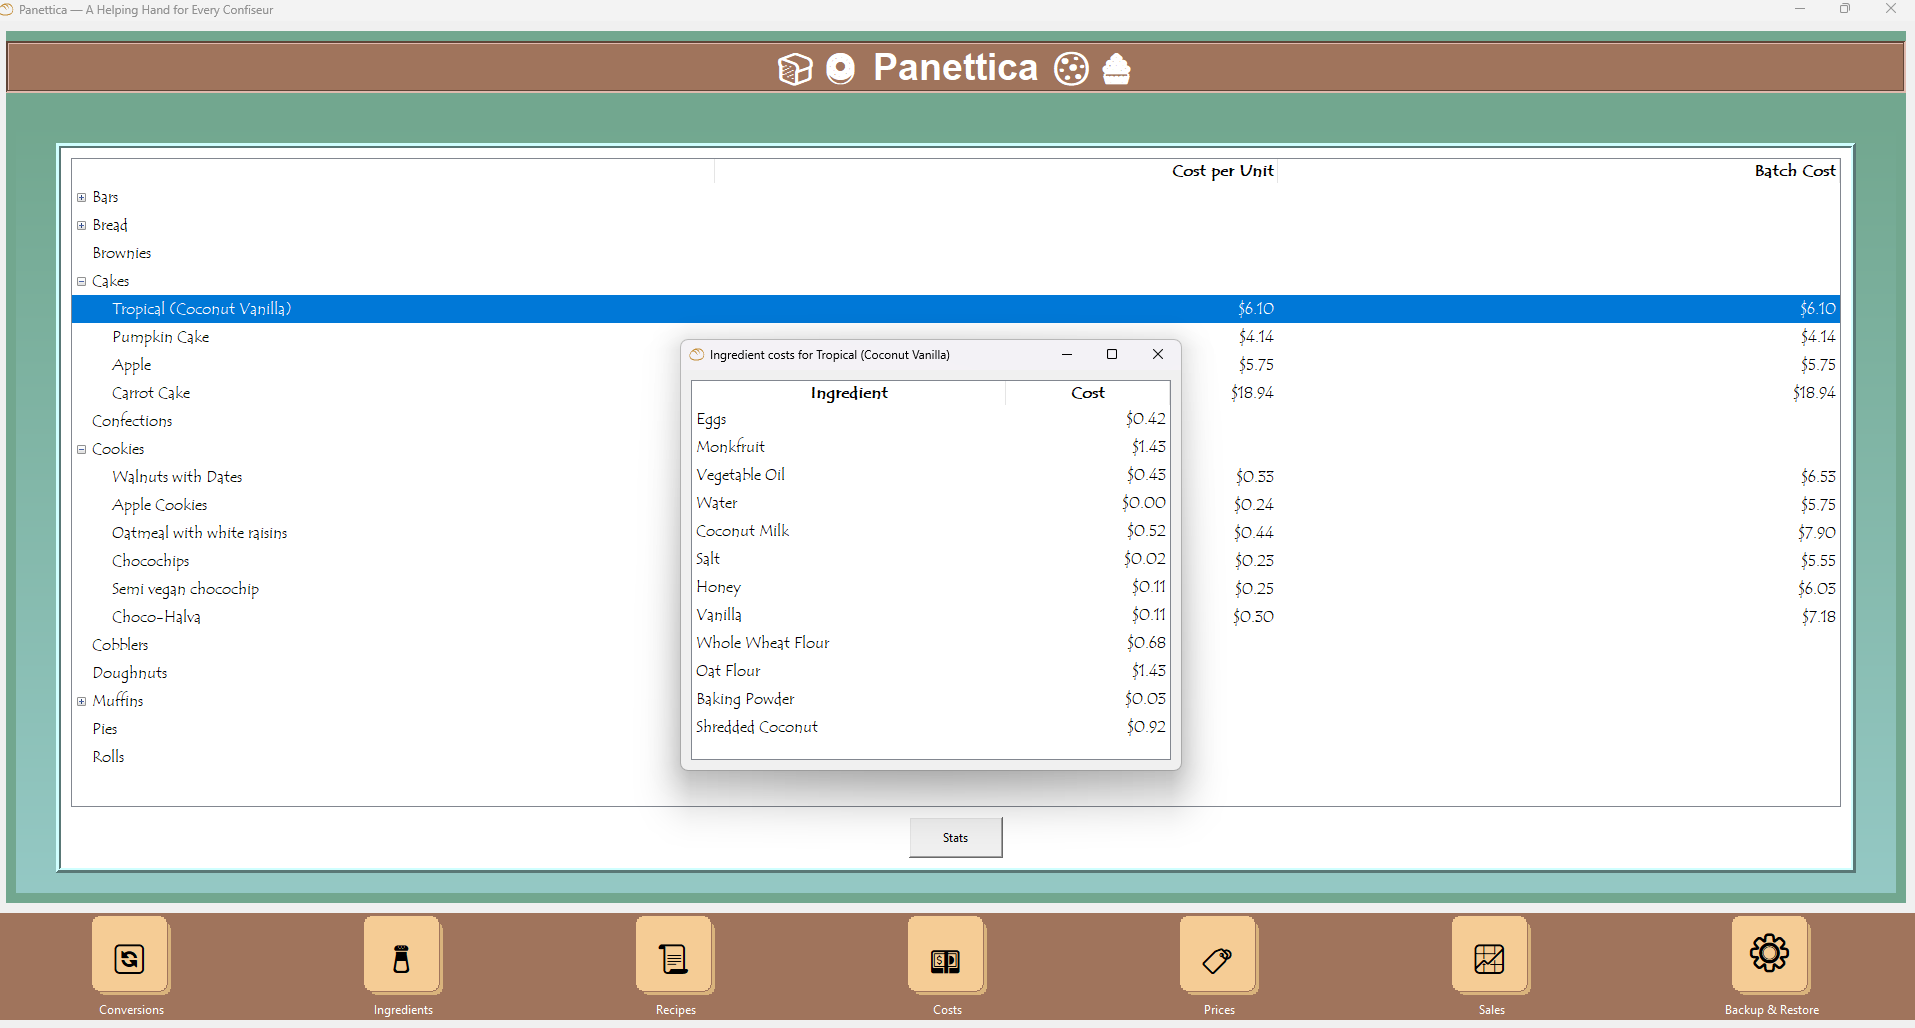
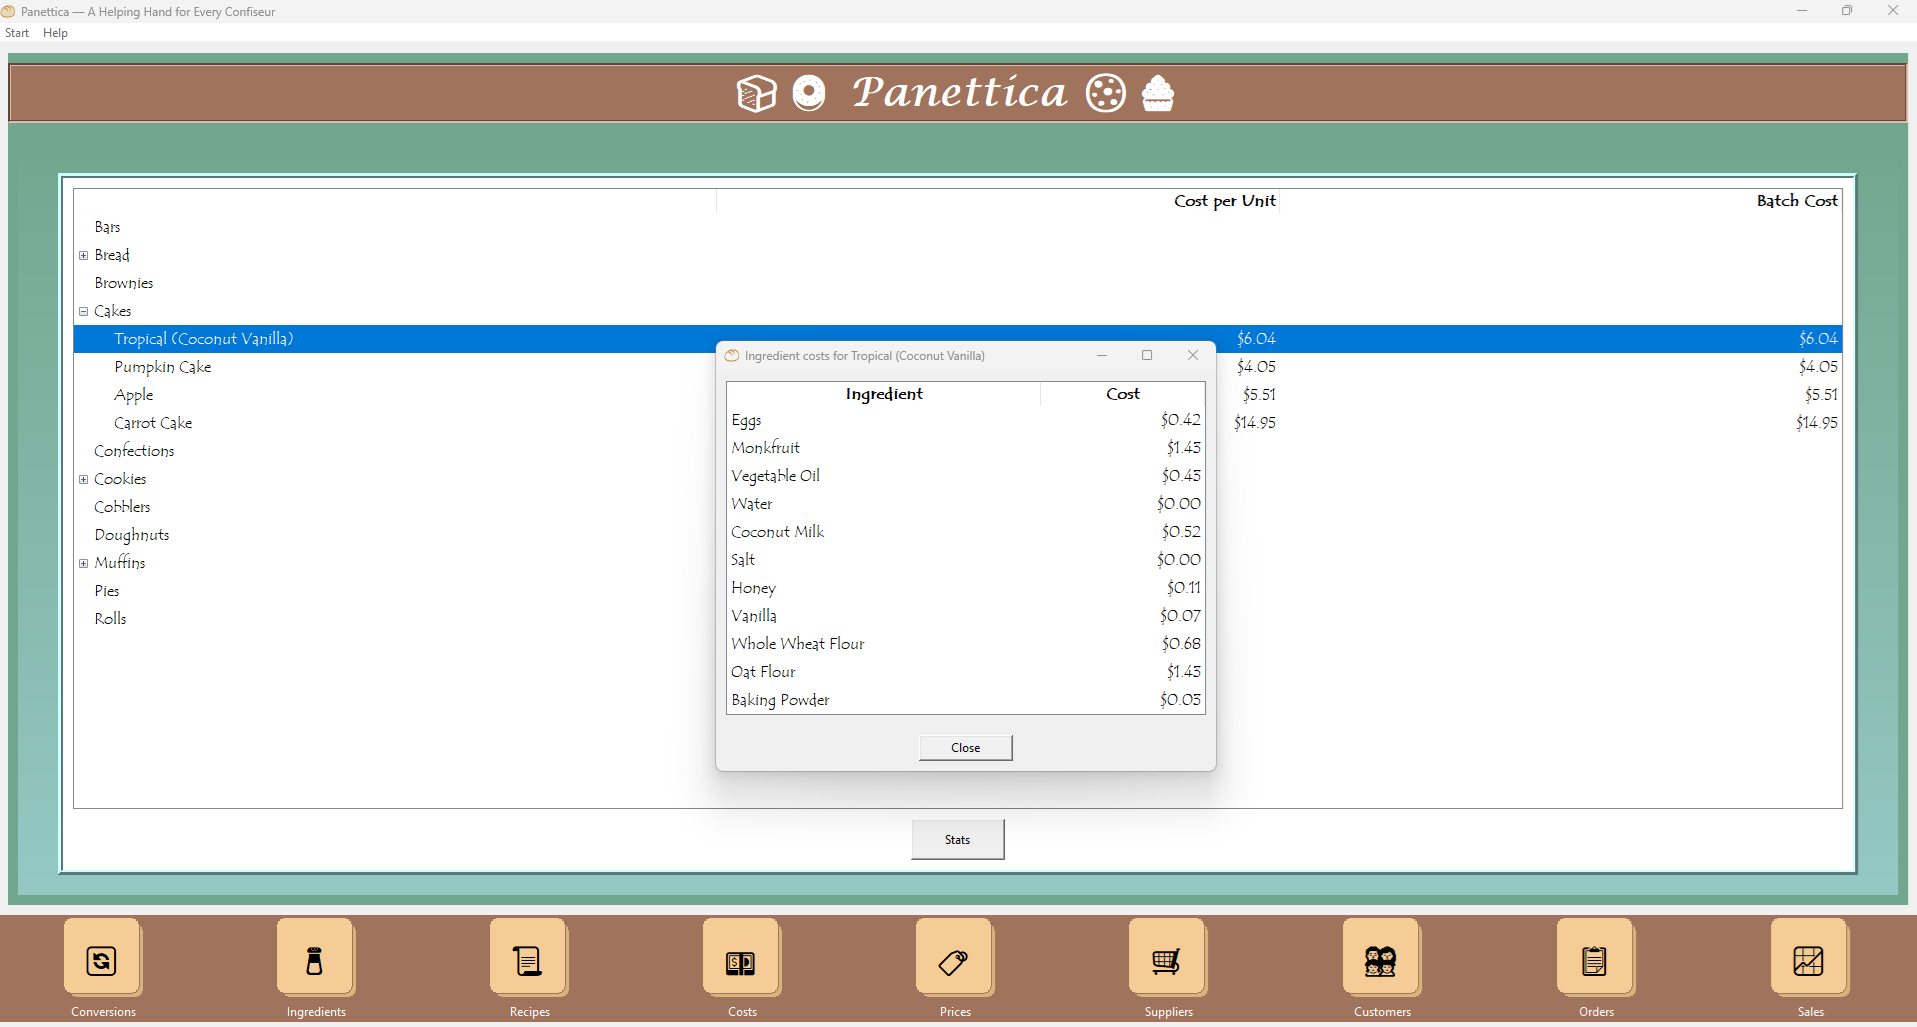
Update to Panettica images

diff --git a/apps/panettica.html b/apps/panettica.html
@@ -94,9 +94,10 @@
       <h2>Screenshots</h2>
       <a href="#img1"><img src="../images/Panettica_GUI_Recipes.png" alt="Panettica Screenshot 1" /></a>
       <a href="#img2"><img src="../images/Panettica_GUI_Costs.png" alt="Panettica Screenshot 2" /></a>
-      <a href="#img3"><img src="../images/Panettica_GUI_Prices.png" alt="Panettica Screenshot 1" /></a>
-      <a href="#img4"><img src="../images/Panettica_Graph_1.png" alt="Panettica Screenshot 2" /></a>
-      <a href="#img5"><img src="../images/Panettica_Graph_2.png" alt="Panettica Screenshot 1" /></a>
+      <a href="#img3"><img src="../images/Panettica_GUI_Prices.png" alt="Panettica Screenshot 3" /></a>
+      <a href="#img4"><img src="../images/Panettica_GUI_Orders.png" alt="Panettica Screenshot 4" /></a>
+      <a href="#img5"><img src="../images/Panettica_Graph_1.png" alt="Panettica Screenshot 5" /></a>
+      <a href="#img6"><img src="../images/Panettica_Graph_2.png" alt="Panettica Screenshot 6" /></a>
 
 
       <!-- Lightbox full-size views -->
@@ -107,13 +108,16 @@
         <a href="#screenshots"><img src="../images/Panettica_GUI_Costs.png" alt="Panettica Screenshot 2 Full" /></a>
       </div>
       <div id="img3" class="lightbox">
-        <a href="#screenshots"><img src="../images/Panettica_GUI_Prices.png" alt="Panettica Screenshot 2 Full" /></a>
+        <a href="#screenshots"><img src="../images/Panettica_GUI_Prices.png" alt="Panettica Screenshot 3 Full" /></a>
       </div>
       <div id="img4" class="lightbox">
-        <a href="#screenshots"><img src="../images/Panettica_Graph_1.png" alt="Panettica Screenshot 2 Full" /></a>
+        <a href="#screenshots"><img src="../images/Panettica_GUI_Orders.png" alt="Panettica Screenshot 4 Full" /></a>
       </div>
       <div id="img5" class="lightbox">
-        <a href="#screenshots"><img src="../images/Panettica_Graph_2.png" alt="Panettica Screenshot 2 Full" /></a>
+        <a href="#screenshots"><img src="../images/Panettica_Graph_1.png" alt="Panettica Screenshot 5 Full" /></a>
+      </div>
+      <div id="img6" class="lightbox">
+        <a href="#screenshots"><img src="../images/Panettica_Graph_2.png" alt="Panettica Screenshot 6 Full" /></a>
       </div>
     </section>
 

diff --git a/apps/quickcontacts.html b/apps/quickcontacts.html
@@ -92,7 +92,7 @@
       <h2>Screenshots</h2>
       <a href="#img1"><img src="../images/QuickContacts_Records.png" alt="QuickContacts Screenshot 1" /></a>
       <a href="#img2"><img src="../images/QuickContacts_Advanced.png" alt="QuickContacts Screenshot 2" /></a>
-      <a href="#img3"><img src="../images/QuickContacts_Update.png" alt="QuickContacts Screenshot 2" /></a>
+      <a href="#img3"><img src="../images/QuickContacts_Update.png" alt="QuickContacts Screenshot 3" /></a>
 
       <!-- Lightbox full-size views -->
       <div id="img1" class="lightbox">
@@ -102,7 +102,7 @@
         <a href="#screenshots"><img src="../images/QuickContacts_Advanced.png" alt="QuickContacts Screenshot 2 Full" /></a>
       </div>
       <div id="img3" class="lightbox">
-        <a href="#screenshots"><img src="../images/QuickContacts_Update.png" alt="QuickContacts Screenshot 2 Full" /></a>
+        <a href="#screenshots"><img src="../images/QuickContacts_Update.png" alt="QuickContacts Screenshot 3 Full" /></a>
       </div>
     </section>
 

diff --git a/main.py b/main.py
@@ -1,0 +1,16 @@
+# This is a sample Python script.
+
+# Press Shift+F10 to execute it or replace it with your code.
+# Press Double Shift to search everywhere for classes, files, tool windows, actions, and settings.
+
+
+def print_hi(name):
+    # Use a breakpoint in the code line below to debug your script.
+    print(f'Hi, {name}')  # Press Ctrl+F8 to toggle the breakpoint.
+
+
+# Press the green button in the gutter to run the script.
+if __name__ == '__main__':
+    print_hi('PyCharm')
+
+# See PyCharm help at https://www.jetbrains.com/help/pycharm/
